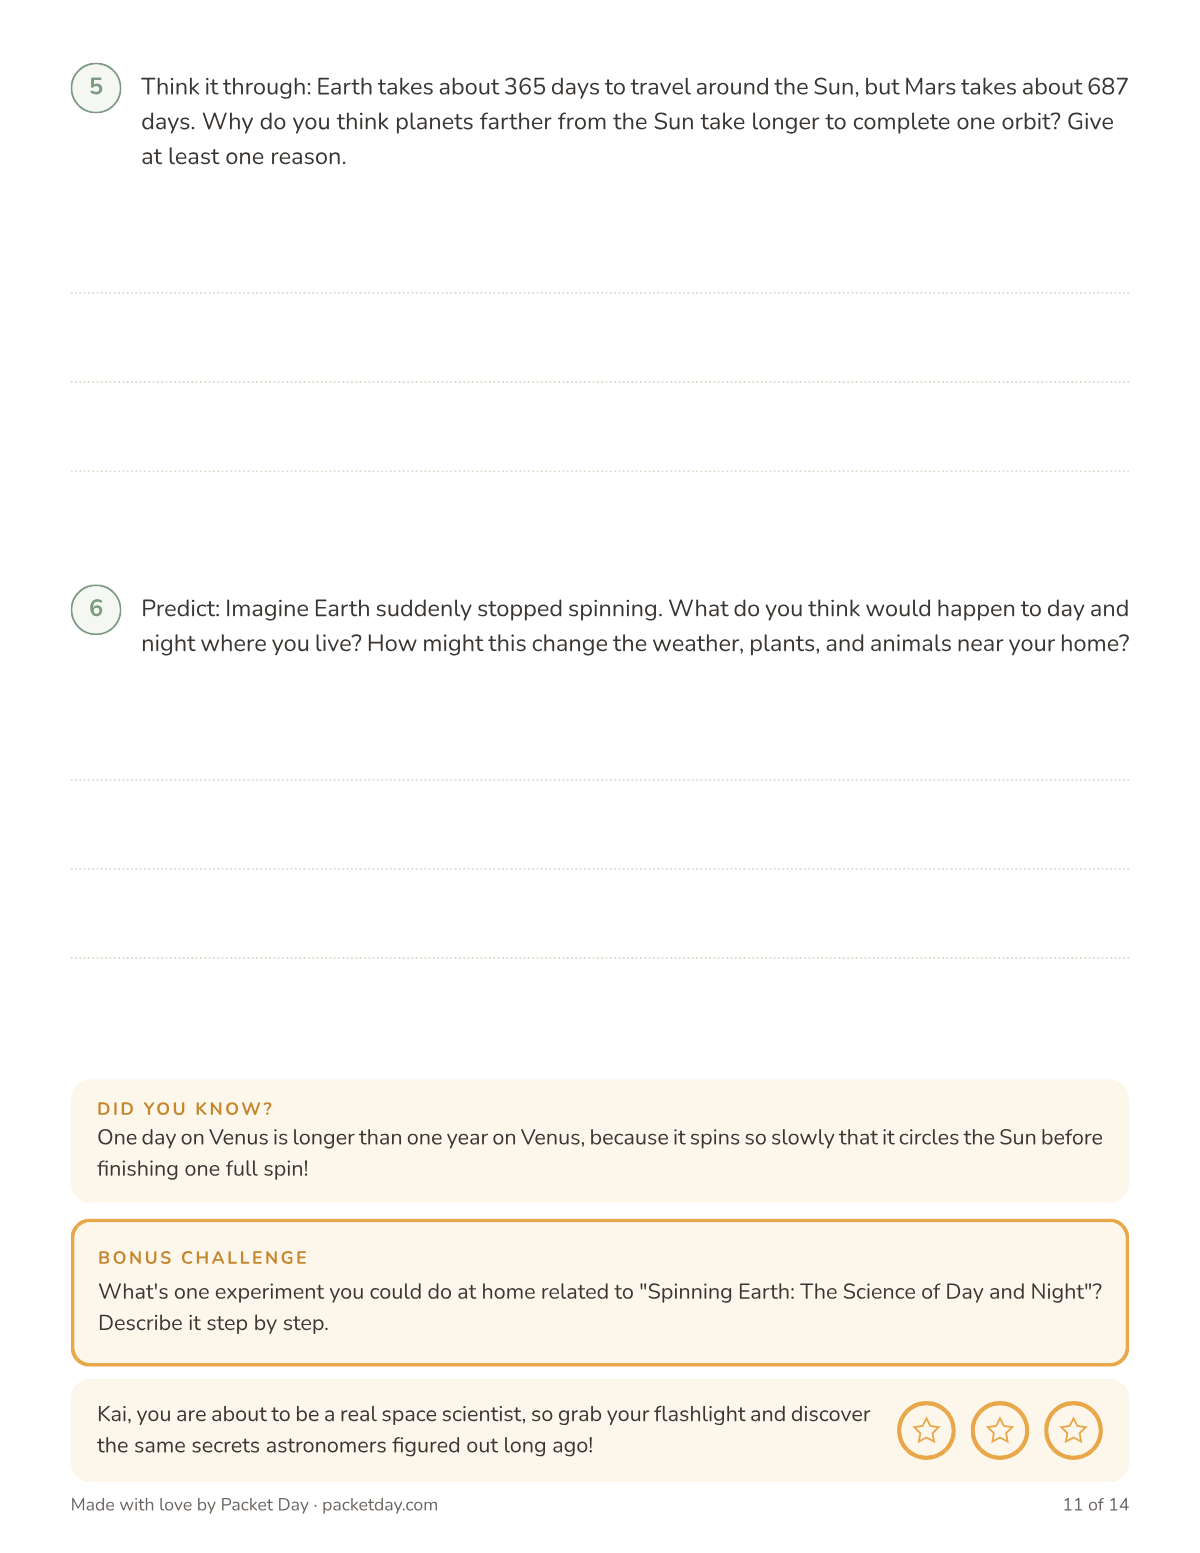
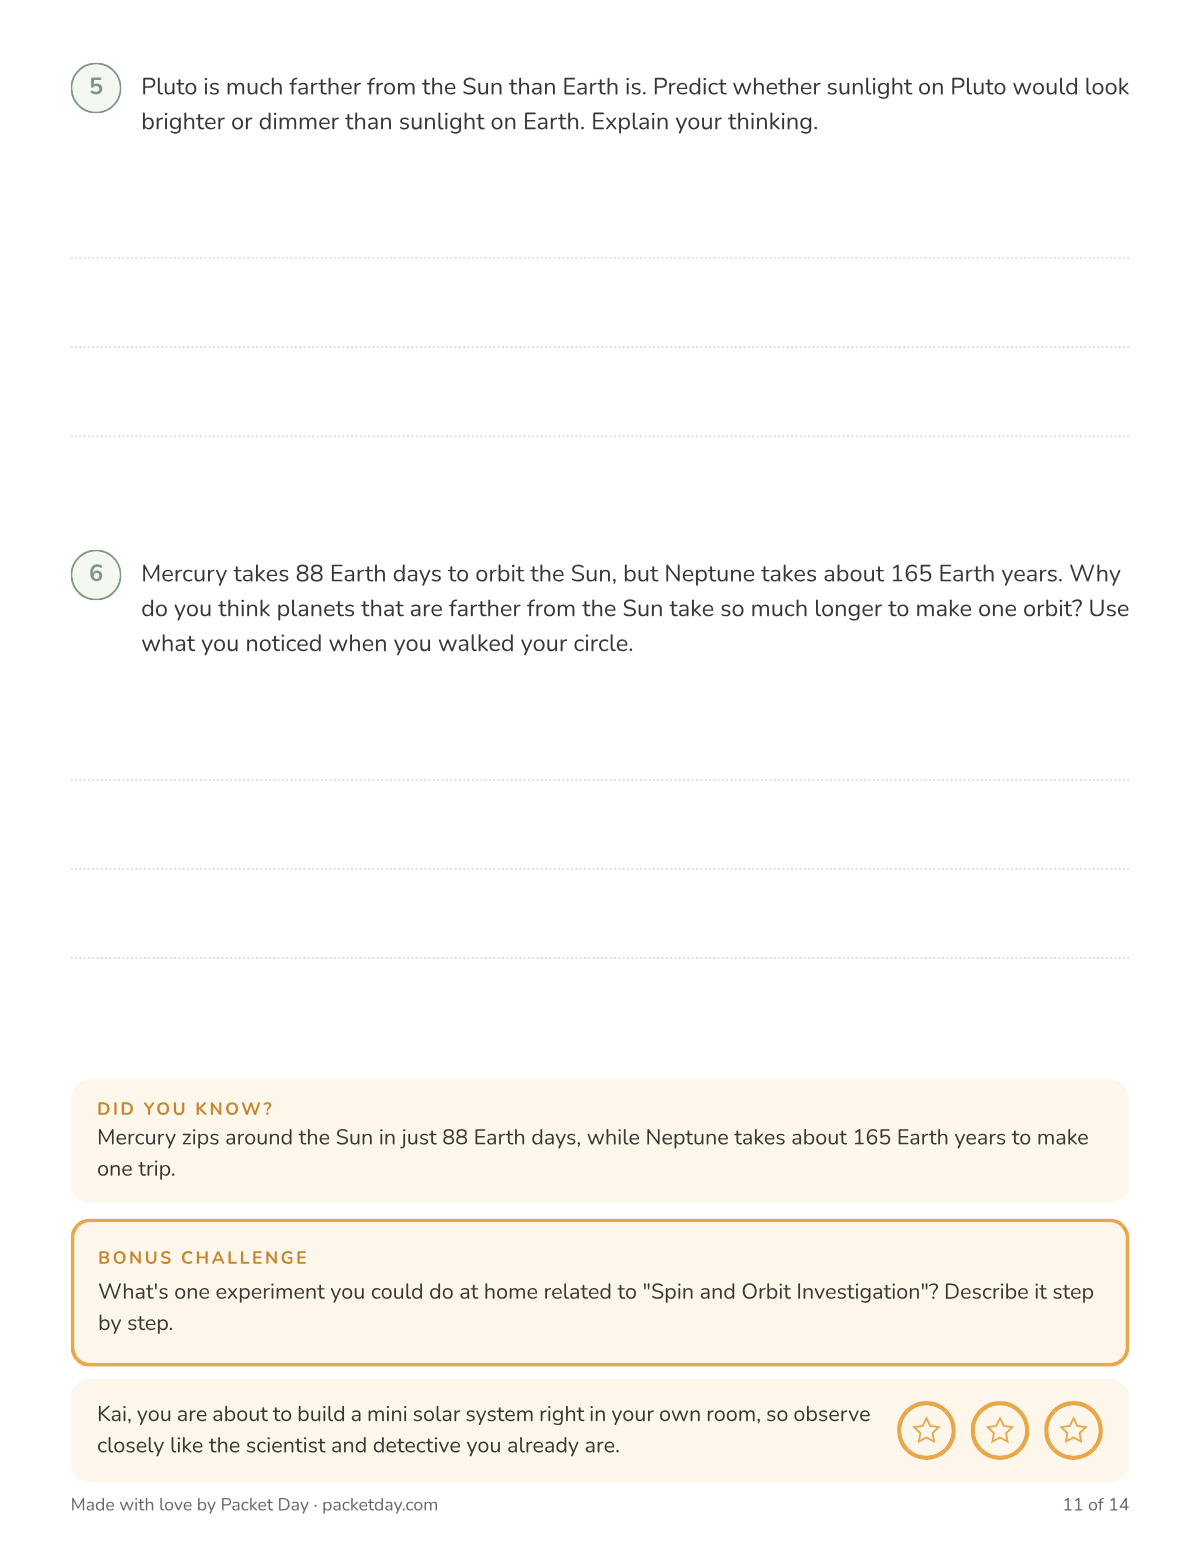
feat: new outer space sample packets with rotating puzzles
Swap /sample to three fresh outer space packets: Mia (grade 1, maze),
Kai (grade 4, crossword) and Jonah (grade 7, 9 by 9 sudoku). All 15
flipbook pages, captions, alt text, schedule, mascot section (Orbit to
Nova) and grade toggle images now match the new packets, and the
toggle shows each grade's puzzle page.

diff --git a/lib/sample/content.ts b/lib/sample/content.ts
@@ -8,7 +8,7 @@ import type { LandingIconName } from "@/components/landing/art/LandingIcon";
 
 export const SAMPLE_CHILD = "Kai";
 export const SAMPLE_GRADE = 4;
-export const SAMPLE_CHARACTER = "Orbit";
+export const SAMPLE_CHARACTER = "Nova";
 
 export const PAGE_WIDTH = 1200;
 export const PAGE_HEIGHT = 1553;
@@ -24,78 +24,78 @@ export interface SamplePage {
 const PAGES: Omit<SamplePage, "src">[] = [
   {
     label: "Cover",
-    caption: "The cover. Orbit the otter astronaut gives Kai today's mission.",
-    alt: "Cover of Kai's Outer Space Adventure Day: Orbit the otter astronaut, 6 activities, 127 minutes, grade 4, and a mission note from Orbit.",
+    caption: "The cover. Nova the fox astronaut hands Kai an urgent case: a missing planet.",
+    alt: "Cover of Kai and the Missing Planet: Nova the fox astronaut with a magnifying glass, 6 activities, 117 minutes, grade 4, and a mission note from Nova.",
   },
   {
     label: "Today at a glance",
-    caption: "Today at a glance: six activities, 127 minutes, and a short note for you.",
+    caption: "Today at a glance: six activities, 117 minutes, and a short note for you.",
     alt: "Today at a Glance page listing the six activities with their minutes, a note for the parent and lines for observations.",
   },
   {
     label: "Math",
-    caption: "Rocket fuel math: two digit multiplication, long division and a fraction of Orbit's moon rocks.",
-    alt: "Math page, Rocket Fuel Math Mission: six quick problems like 34 x 12 and 945 divided by 7, then four space word problems.",
+    caption: "Mission Control Math: two digit multiplication, division and a fraction of the rocky planets.",
+    alt: "Math page, Mission Control Math: six quick problems like 24 x 13 and 756 divided by 6, then four space word problems.",
   },
   {
     label: "Math, draw and solve",
-    caption: "Draw and solve: sketch 4 rows of 13 solar panels on the moon base.",
-    alt: "Draw and solve page: a big box to draw 4 rows of 13 solar panels, a space fact and a bonus challenge.",
+    caption: "Draw and solve: an area model for Nova's launch pad, 23 tiles by 14 tiles.",
+    alt: "Draw and solve page: a big box to draw an area model for 23 x 14, a Jupiter fact and a bonus challenge.",
   },
   {
     label: "Reading",
-    caption: "Reading: Orbit's grand tour past all eight planets.",
-    alt: "Reading page, Orbit's Grand Tour of the Planets: a story about Orbit flying past every planet from Mercury to Neptune.",
+    caption: "Reading: an old star chart in Grandpa's attic shows nine planets. Where did the ninth one go?",
+    alt: "Reading page, The Case of the Ninth Planet: a mystery story about Kai and Nova finding an old star chart with Pluto on it.",
   },
   {
     label: "Reading questions",
-    caption: "Six questions about the story, from why Venus is so hot to the joke in Orbit's name.",
-    alt: "Six comprehension questions about the planet story, with lines to write each answer.",
+    caption: "Six questions about the story, from what orbit means to whether Pluto should still be a planet.",
+    alt: "The end of the story and six comprehension questions, with lines to write each answer.",
   },
   {
     label: "Writing",
-    caption: "Writing: Commander Kai writes a mission log, with Orbit as copilot.",
-    alt: "Writing page, Commander Kai's Mission Log: four prompts for a two paragraph log about a trip to one planet, with writing lines.",
+    caption: "Writing: Kai writes a detective report about a mystery object far beyond Neptune.",
+    alt: "Writing page, Detective Report from the Edge of Space: four prompts for a two paragraph report, with writing lines.",
   },
   {
     label: "Puzzle break",
-    caption: "Puzzle break: a galaxy word search with nine space words.",
-    alt: "Galaxy Word Search: a letter grid with nine words to find, like PLANET, ROCKET, SATURN and GRAVITY.",
+    caption: "Puzzle break: a solar system crossword, with a joke of the day.",
+    alt: "Solar System Clue Crossword: a crossword grid with 11 space clues, like the eighth planet and a tool that makes faraway stars look closer, and a joke of the day.",
   },
   {
     label: "Movement break",
-    caption: "Movement break: count down, blast off, moonwalk and do 10 star jumps.",
-    alt: "Rocket Launch Workout: six moves, from a countdown jump to a slow moonwalk and 10 star jumps.",
+    caption: "Movement break: count down, blast off, moonwalk and orbit the room.",
+    alt: "Rocket Launch Countdown: six moves, from a countdown jump to slow moonwalk steps and 10 star jumps.",
   },
   {
     label: "Science",
-    caption: "Science: a flashlight and a ball show why we have day and night.",
-    alt: "Science page, Spinning Earth: The Science of Day and Night: observe the Sun, then spin a ball in flashlight light and explain what happens.",
+    caption: "Science: a flashlight and a ball show how Earth spins and orbits.",
+    alt: "Science page, Spin and Orbit Investigation: shine a flashlight on a ball, spin it to show day and night, then walk it around the light.",
   },
   {
     label: "More science",
-    caption: "More science: why Mars takes longer to go around the Sun, and what if Earth stopped spinning.",
-    alt: "Second science page with two thinking questions, a Venus fact and a bonus challenge.",
+    caption: "More science: how bright is sunlight on Pluto, and why does Neptune take so long to go around the Sun?",
+    alt: "Second science page with two thinking questions, a Mercury and Neptune fact and a bonus challenge.",
   },
   {
     label: "Coloring page",
-    caption: "Coloring page: Kai and Orbit on the Moon, with a rocket, a flag and a ringed planet.",
-    alt: "Coloring page, Kai and Orbit Explore the Moon: a kid and an otter in spacesuits on the Moon next to a rocket, a flag and a ringed planet.",
+    caption: "Coloring page: Kai and Nova spot a faraway dwarf planet through a telescope.",
+    alt: "Coloring page, Kai and Nova Spot a Faraway Dwarf Planet: a kid and a fox in spacesuits next to a telescope and a rocket, with a ringed planet and a comet overhead.",
   },
   {
     label: "Daily reflection",
-    caption: "Daily reflection: Orbit says mission complete, and Kai answers one last question.",
-    alt: "Daily Reflection page: a note from Orbit, one question about the day and lines to answer it.",
+    caption: "Daily reflection: Nova says case closed, and Kai answers one last question.",
+    alt: "Daily Reflection page: a note from Nova, one question about the day and lines to answer it.",
   },
   {
     label: "Certificate",
     caption: "The certificate, with a spot for your signature and Kai's.",
-    alt: "Certificate of completion for Kai, with signature lines and the words Orbit is proud of you, Kai.",
+    alt: "Certificate of completion for Kai, with signature lines and the words Nova is proud of you, Kai.",
   },
   {
     label: "Parent answer key",
-    caption: "Parent answer key: the math, reading and science answers, plus teaching notes. You don't have to print it.",
-    alt: "Parent answer key and teaching notes with every math answer and the reading and science answers.",
+    caption: "Parent answer key: every answer, including the finished crossword. You don't have to print it.",
+    alt: "Parent answer key and teaching notes with the math, reading and science answers and the solved crossword.",
   },
 ];
 
@@ -115,13 +115,13 @@ export interface DayStep {
 
 /** From Kai's Today at a Glance page, then the pages that close the day. */
 export const DAY_STEPS: DayStep[] = [
-  { icon: "math", kind: "Math", title: "Rocket Fuel Math Mission", minutes: 30 },
-  { icon: "reading", kind: "Reading", title: "Orbit's Grand Tour of the Planets", minutes: 25 },
-  { icon: "artPe", kind: "Writing", title: "Commander Kai's Mission Log", minutes: 25 },
-  { icon: "limitless", kind: "Puzzle break", title: "Galaxy Word Search", minutes: 10 },
-  { icon: "peBreaks", kind: "Movement break", title: "Rocket Launch Workout", minutes: 7 },
-  { icon: "science", kind: "Science", title: "Spinning Earth: The Science of Day and Night", minutes: 30 },
-  { icon: "original", kind: "Coloring page", title: "Kai and Orbit Explore the Moon", note: "Whenever they want" },
+  { icon: "math", kind: "Math", title: "Mission Control Math", minutes: 25 },
+  { icon: "reading", kind: "Reading", title: "The Case of the Ninth Planet", minutes: 25 },
+  { icon: "artPe", kind: "Writing", title: "Detective Report from the Edge of Space", minutes: 20 },
+  { icon: "limitless", kind: "Puzzle break", title: "Solar System Clue Crossword", minutes: 15 },
+  { icon: "peBreaks", kind: "Movement break", title: "Rocket Launch Countdown", minutes: 7 },
+  { icon: "science", kind: "Science", title: "Spin and Orbit Investigation", minutes: 25 },
+  { icon: "original", kind: "Coloring page", title: "Kai and Nova Spot a Faraway Dwarf Planet", note: "Whenever they want" },
   { icon: "gradeAligned", kind: "Certificate", title: "Signed by you and Kai", note: "At the end" },
   { icon: "answerKeys", kind: "Answer key", title: "For you, not for Kai", note: "On your phone" },
 ];
@@ -133,49 +133,62 @@ export interface GradeSample {
   caption: string;
   math: { src: string; alt: string };
   reading: { src: string; alt: string };
+  puzzle: { src: string; alt: string };
 }
 
 export const GRADE_SAMPLES: GradeSample[] = [
   {
     grade: 1,
     childName: "Mia",
-    character: "Comet the cat",
-    caption: "Adding and subtracting within 10, and a short rocket story.",
+    character: "Astro the puppy",
+    caption: "Adding and subtracting within 10, a short Moon story and a maze.",
     math: {
       src: "/sample/toggle/grade-1-math.png",
-      alt: "Grade 1 math page, Rocket Counting and Star Math: problems like 2 + 3 and 9 minus 3, and word problems about planets, stars and space snacks.",
+      alt: "Grade 1 math page, Countdown Space Math: problems like 2 + 3 and 10 minus 4, and word problems about planets, moon rocks, rockets and stars.",
     },
     reading: {
       src: "/sample/toggle/grade-1-reading.png",
-      alt: "Grade 1 reading page, Blast Off to the Planets: a short story about Mia and Comet the cat flying past the Sun, Mars and Saturn.",
+      alt: "Grade 1 reading page, The Hunt for the Moon Rock: a short story about Mia and Astro the puppy flying past the Sun, Mars and Saturn to find a moon rock.",
+    },
+    puzzle: {
+      src: "/sample/toggle/grade-1-puzzle.png",
+      alt: "Grade 1 puzzle page, Rocket Race to the Moon: a maze from START to FINISH, a Venus fact and a joke of the day.",
     },
   },
   {
     grade: 4,
     childName: "Kai",
-    character: "Orbit the otter",
-    caption: "Two digit multiplication, long division and a tour of the planets.",
+    character: "Nova the fox",
+    caption: "Two digit multiplication, a Pluto mystery and a crossword.",
     math: {
       src: "/sample/toggle/grade-4-math.png",
-      alt: "Grade 4 math page, Rocket Fuel Math Mission: problems like 56 x 23 and 945 divided by 7, and four space word problems.",
+      alt: "Grade 4 math page, Mission Control Math: problems like 36 x 25 and 756 divided by 6, and four space word problems.",
     },
     reading: {
       src: "/sample/toggle/grade-4-reading.png",
-      alt: "Grade 4 reading page, Orbit's Grand Tour of the Planets: a story about Orbit flying past all eight planets.",
+      alt: "Grade 4 reading page, The Case of the Ninth Planet: a mystery story about Kai and Nova the fox finding an old star chart with nine planets.",
+    },
+    puzzle: {
+      src: "/sample/toggle/grade-4-puzzle.png",
+      alt: "Grade 4 puzzle page, Solar System Clue Crossword: a crossword with 11 space clues and a joke of the day.",
     },
   },
   {
     grade: 7,
     childName: "Jonah",
-    character: "Nova the owl",
-    caption: "Two step equations, rocket data and the true story of the Voyager probes.",
+    character: "Kepler the owl",
+    caption: "Two step equations, escape velocity and a 9 by 9 sudoku.",
     math: {
       src: "/sample/toggle/grade-7-math.png",
-      alt: "Grade 7 math page, Launch Math: two step equations, a mean, the volume of a cylinder and word problems about a rocket's climb.",
+      alt: "Grade 7 math page, Launch Control Equations: integers, two step equations, a mean, the volume of a cylinder and word problems about a rocket launch.",
     },
     reading: {
       src: "/sample/toggle/grade-7-reading.png",
-      alt: "Grade 7 reading page, The Longest Road Trip in History: the true story of the Voyager probes, told with Nova the owl.",
+      alt: "Grade 7 reading page, The Second Launch: Jonah and Kepler the owl work out why their first simulated rocket launch failed to reach escape velocity.",
+    },
+    puzzle: {
+      src: "/sample/toggle/grade-7-puzzle.png",
+      alt: "Grade 7 puzzle page, Kepler's Orbital Number Grid: a 9 by 9 sudoku, a Venus fact and a joke of the day.",
     },
   },
 ];

diff --git a/app/sample/page.tsx b/app/sample/page.tsx
@@ -36,7 +36,7 @@ const OG_IMAGE = {
   url: `${SITE_URL}/og/sample`,
   width: 1200,
   height: 630,
-  alt: "The cover of Kai's Outer Space Adventure Day, a real sample packet",
+  alt: "The cover of Kai and the Missing Planet, a real sample packet",
 };
 
 export const metadata: Metadata = {
@@ -181,30 +181,30 @@ export default function SamplePage() {
           </div>
         </section>
 
-        {/* Meet Orbit */}
+        {/* Meet Nova */}
         <section className="px-6 py-20 bg-cream-deep">
           <div className="max-w-5xl mx-auto grid gap-8 md:grid-cols-[23.5rem_1fr] md:gap-12 md:items-center">
-            {/* Orbit on her own, from the packet's cover art. Above the heading on mobile, left of it on desktop. */}
+            {/* Nova on their own, from the packet's cover art. Above the heading on mobile, left of it on desktop. */}
             <div className="mx-auto w-[17rem] md:w-full overflow-hidden rounded-3xl border border-border bg-white p-3 shadow-sm">
               <Image
-                src="/sample/orbit.png"
-                alt="Orbit the otter astronaut in a silver spacesuit, reaching for a ringed planet."
+                src="/sample/nova.png"
+                alt="Nova the fox astronaut in a shiny silver spacesuit, waving and holding a magnifying glass."
                 width={742}
-                height={741}
+                height={742}
                 sizes="(min-width: 768px) 352px, 248px"
                 loading="lazy"
                 className="h-auto w-full"
               />
             </div>
             <div>
-              <SectionHeading>Meet Orbit</SectionHeading>
+              <SectionHeading>Meet Nova</SectionHeading>
               <p className="mb-5 text-dark/70 leading-relaxed">
                 {/* Plain text on purpose: built from constants, this paragraph came out of
                     the build with words missing (a string folding bug), so it names Kai directly. */}
-                Orbit is an otter astronaut in a silver spacesuit, and she guides Kai through the whole day. On the
-                cover she gives Kai a mission: fuel the rocket with math, read her flight log and write a report. In
-                the reading she laughs when she figures out that her name means the path something takes around the
-                Sun, and the certificate ends with &ldquo;Orbit is proud of you, Kai.&rdquo;
+                Nova is a fox astronaut in a shiny silver spacesuit, with a magnifying glass for detective work. On the
+                cover Nova brings Kai an urgent case: an old star chart shows nine planets, but today we only count
+                eight. In the reading they follow the clues to find out why Pluto is now called a dwarf planet, and the
+                certificate ends with &ldquo;Nova is proud of you, Kai.&rdquo;
               </p>
               <p className="font-semibold text-dark">Every packet invents its own character.</p>
             </div>
@@ -216,8 +216,8 @@ export default function SamplePage() {
           <div className="max-w-4xl mx-auto">
             <SectionHeading center>Same theme, different grade</SectionHeading>
             <p className="mx-auto mb-10 max-w-2xl text-center text-dark/70 leading-relaxed">
-              We made the same outer space packet for three kids in three grades. Tap a grade to see how the math and
-              the reading change.
+              We made the same outer space packet for three kids in three grades. Tap a grade to see how the math, the
+              reading and the puzzle change.
             </p>
             <GradeToggle samples={GRADE_SAMPLES} defaultGrade={DEFAULT_GRADE} width={PAGE_WIDTH} height={PAGE_HEIGHT} />
           </div>

diff --git a/components/sample/GradeToggle.tsx b/components/sample/GradeToggle.tsx
@@ -11,7 +11,7 @@ interface Props {
   height: number;
 }
 
-/** Tabs that swap the math and reading pages between three real packets on the same theme. */
+/** Tabs that swap the math, reading and puzzle pages between three real packets on the same theme. */
 export default function GradeToggle({ samples, defaultGrade, width, height }: Props) {
   const [grade, setGrade] = useState(defaultGrade);
   const tabRefs = useRef<(HTMLButtonElement | null)[]>([]);
@@ -62,10 +62,11 @@ export default function GradeToggle({ samples, defaultGrade, width, height }: Pr
         </p>
         <p className="mt-1 text-center text-dark/70">{active.caption}</p>
         <p className="mt-1 mb-6 text-center text-xs text-dark/60">Guide: {active.character}</p>
-        <div className="grid grid-cols-2 gap-3 md:gap-6">
+        <div className="grid grid-cols-3 gap-2 sm:gap-4 md:gap-6">
           {[
             { label: "Math page", image: active.math },
             { label: "Reading page", image: active.reading },
+            { label: "Puzzle page", image: active.puzzle },
           ].map(({ label, image }) => (
             <figure key={image.src}>
               <div className="overflow-hidden rounded-lg border border-dark/10 bg-white shadow-sm">
@@ -74,7 +75,7 @@ export default function GradeToggle({ samples, defaultGrade, width, height }: Pr
                   alt={image.alt}
                   width={width}
                   height={height}
-                  sizes="(min-width: 1024px) 460px, 50vw"
+                  sizes="(min-width: 1024px) 300px, 33vw"
                   loading="lazy"
                   className="h-auto w-full"
                 />
